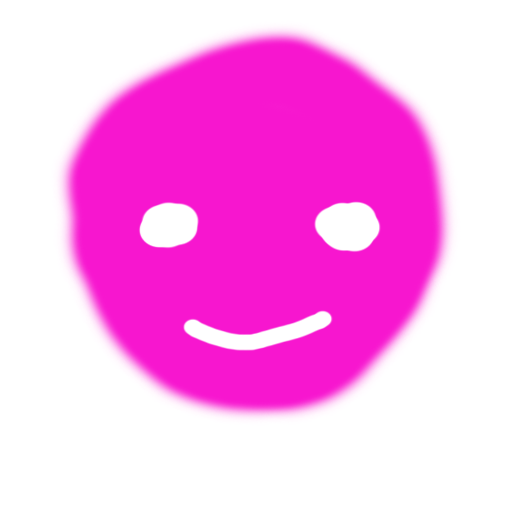
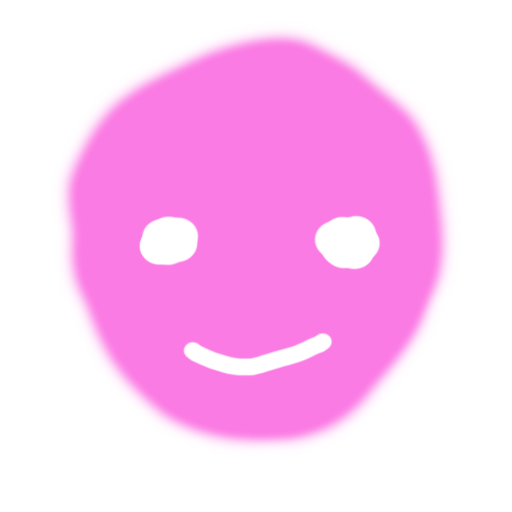
figured out z depth

diff --git a/game/js/app.js b/game/js/app.js
@@ -41,7 +41,7 @@ fetch(new Request('./models/faceplane.obj'))
   mask = makeModel(new OBJ.Mesh(objText));
   scene.push(mask);
   OBJ.initMeshBuffers(gl, mask.mesh);
-  vec3.set(mask.translation, 0, 0, -5);
+  vec3.set(mask.translation, 0, 0, -2);
   animate();
 });
 
@@ -122,14 +122,19 @@ function findEyePair (rects) {
 }
 
 function updateMaskPosition () {
-  let nx = (midbrow.x - canvas.width/2) / (canvas.width/2);
-  let ny = (midbrow.y - canvas.height/2) / (canvas.height/2);
-  let z = mask.translation[2];
   let hov = camera.fov * camera.ar;
-  let xoff = (z * nx);
-  let yoff = (z * ny);
-  mask.translation[0] = xoff;
-  mask.translation[1] = yoff;
+  let zcam = (canvas.width/2) * Math.atan(hov/2);
+  let eyedist = dist({ x: leftEye.x, y: leftEye.y }, { x: rightEye.x + rightEye.width, y: rightEye.y });
+
+  mask.translation[2] = -zcam / (eyedist);
+  let z = mask.translation[2];
+
+  let dnx = (midbrow.x - canvas.width/2) * z / zcam;
+  let dny = (midbrow.y - canvas.height/2) * z / zcam;
+
+  mask.translation[0] = dnx;
+  mask.translation[1] = dny;
+  quat.fromEuler(mask.rotation, 0, 0, midbrow.a * 180 / Math.PI - 90);
 }
 
 function dist (a, b) {

diff --git a/game/js/glsetup.js b/game/js/glsetup.js
@@ -32,7 +32,7 @@ const fsSource = `
 `;
 
 const camera = {
-  fov: 45 * Math.PI/ 180,
+  fov: 90 * Math.PI/ 180,
   ar: glcan.clientWidth / glcan.clientHeight,
   near: 1.0,
   far: 1000.0,
